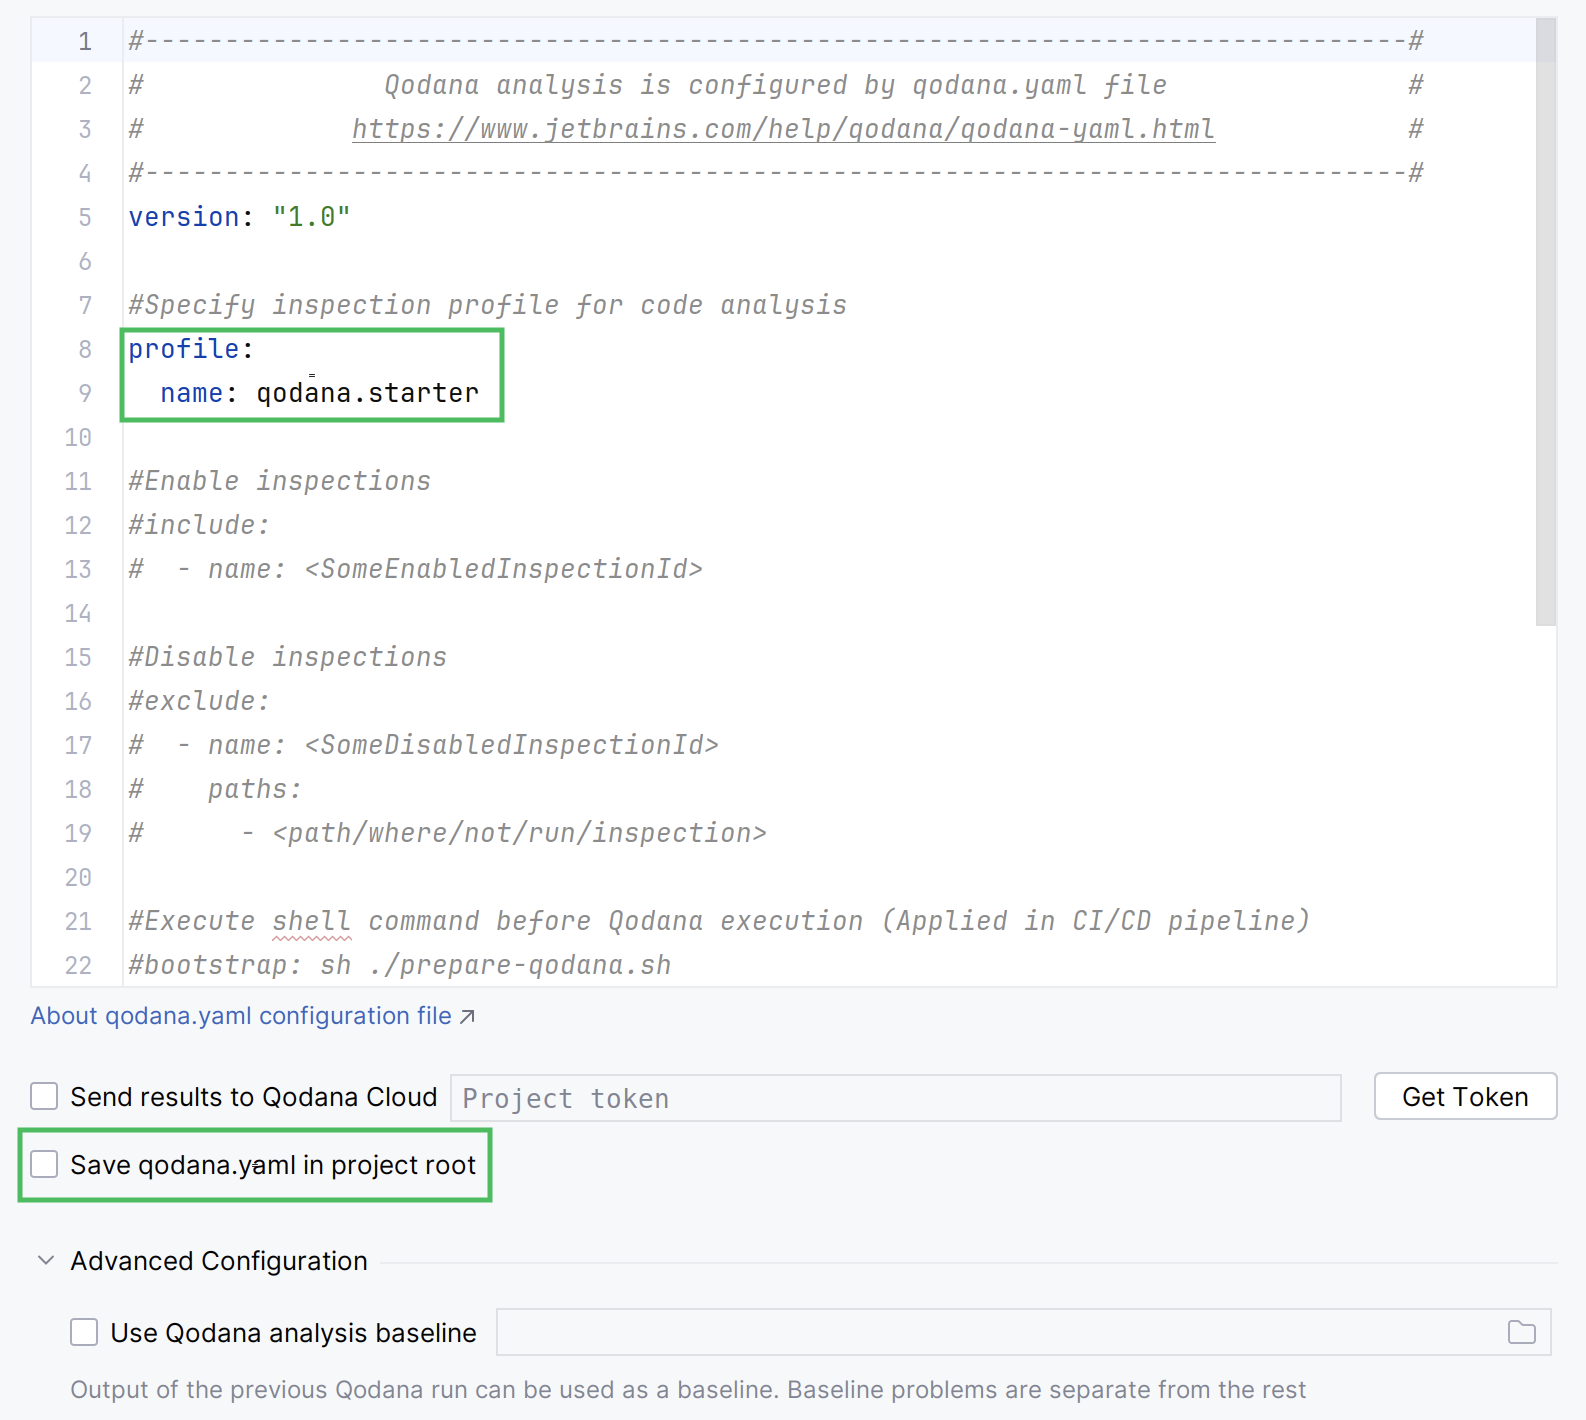
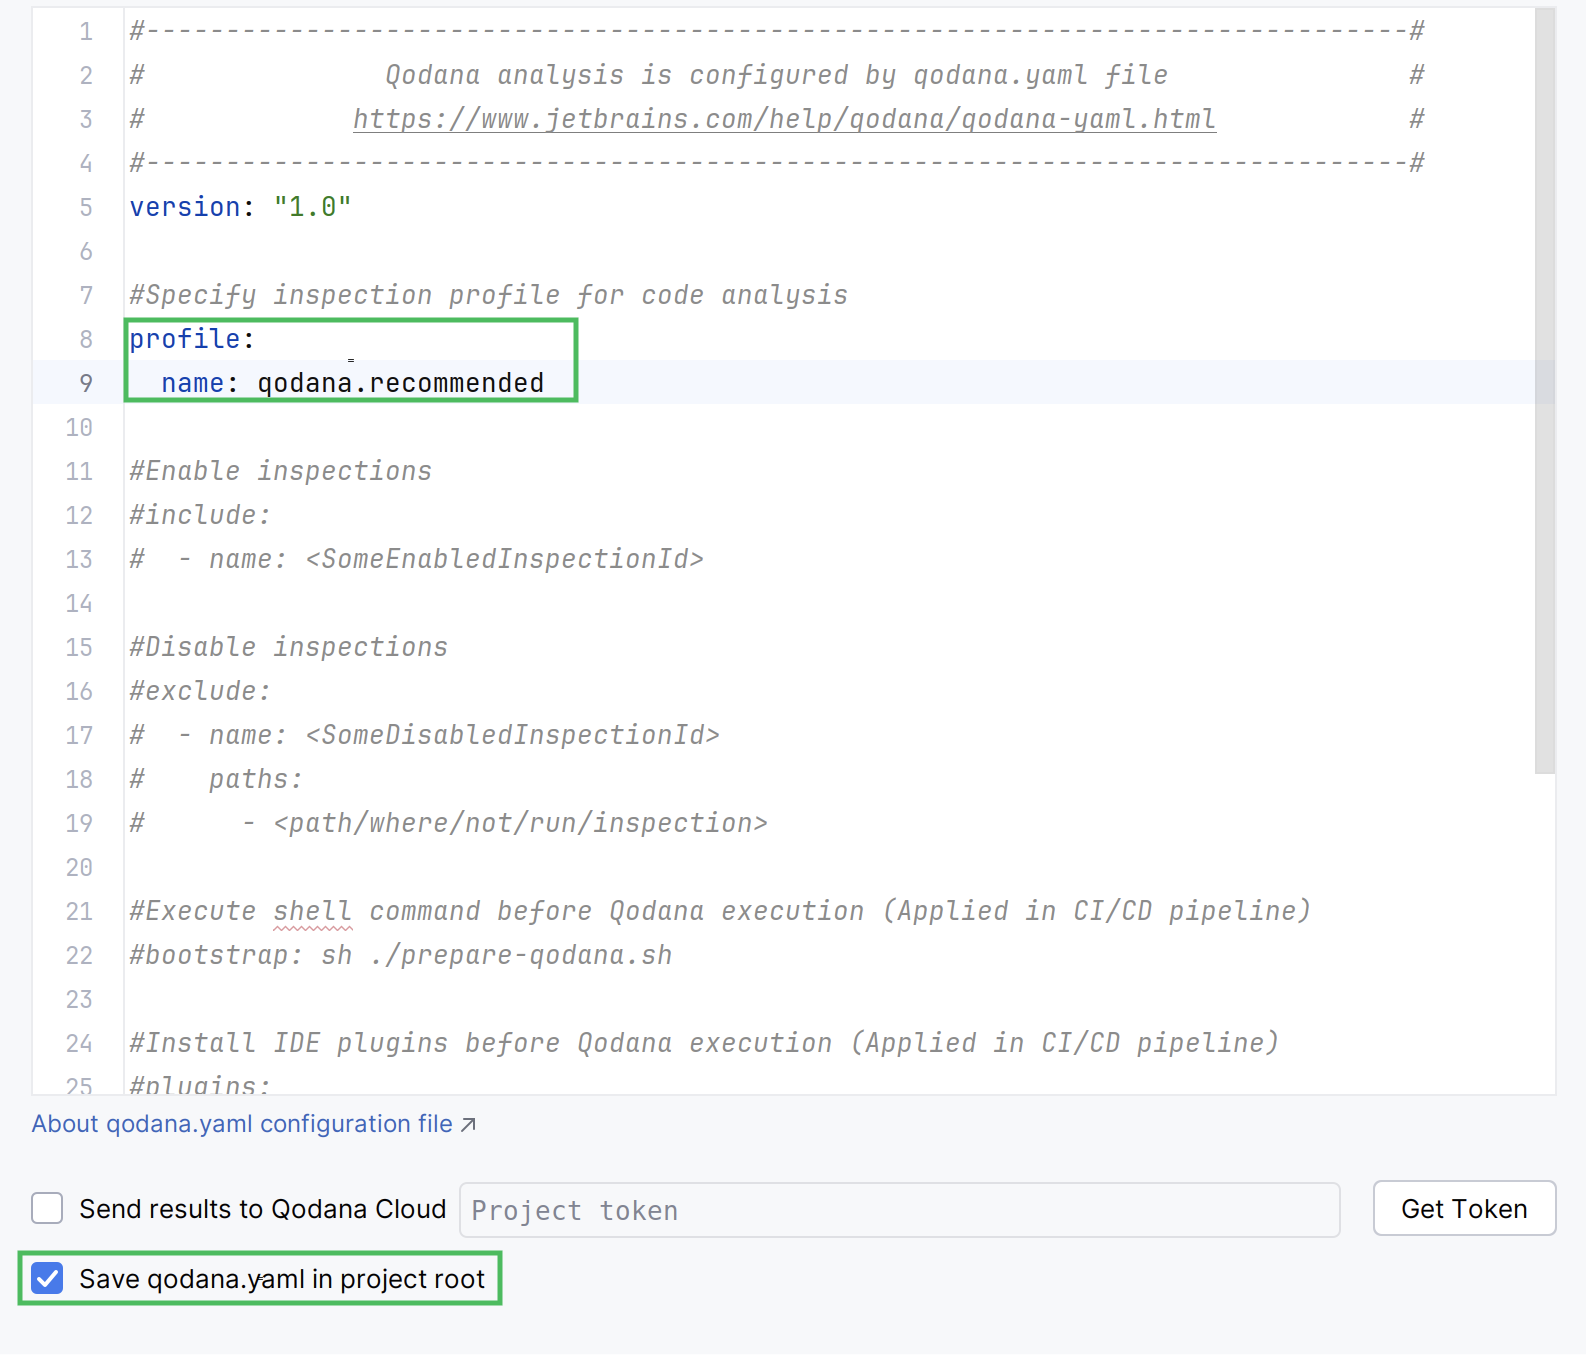
QD-9074 Update based on SME review

diff --git a/topics/inspection-profiles-draft.md b/topics/inspection-profiles-draft.md
@@ -12,9 +12,8 @@
 <link-summary>Inspection profiles configure inspections, file scopes that these inspections analyze, 
 and severities.</link-summary>
 
-Inspection profiles configure [inspections](code-inspections.topic), file scopes that these inspections analyze, and 
-[severities](troubleshooting.topic#troubleshooting-severities). Using inspection profiles, you tell %instance% about
-a scope and methods of inspection.
+Inspection profiles define [inspections](code-inspections.topic), file scopes that these inspections analyze, and 
+[severities](troubleshooting.topic#troubleshooting-severities).
 
 ## %product% profiles
 {id="Default+profiles"}
@@ -36,9 +35,23 @@ Out of the box, you can employ these %product% profiles:
     </tr>
     <tr>
         <td><code>qodana.recommended</code></td>
-        <td>Implements default profiles of JetBrains IDEs like <a href="https://www.jetbrains.com/help/idea/customizing-profiles.html">IntelliJ IDEA</a> and others. Contains 
-        inspections for critical or severe issues in the codebase. Does not perform style checks and ignores 
-        non-critical folders like <code>tests</code></td>
+        <td><p>Implements default profiles of JetBrains IDEs like 
+        <a href="https://www.jetbrains.com/help/idea/customizing-profiles.html">IntelliJ IDEA</a> with the following 
+        exceptions:</p> 
+        <list>
+            <li>
+                By default, Qodana provides analysis only for specific languages and frameworks. This means that, for 
+                example, Groovy or JavaScript inspections are available but disabled by default. Inspections
+                of the <code>INFORMATION</code> <a href="troubleshooting.topic" anchor="troubleshooting-severities">IDE severity</a> 
+                are also disabled.</li>
+            <li>
+                Several inspections that affect code highlighting in IDEs and global inspections were removed from %product% linters.  
+            </li>
+            <li>
+                Flaky inspections that are still available in IDEs were removed from %product% linters.
+            </li>
+        </list>
+        </td>
         <td>See <a anchor="profiles-set-up-a-qodana-profile"/></td>
     </tr>
 </table>
@@ -67,7 +80,6 @@ all software products.
 <step>In the root directory of your project, create the <code>qodana.yaml</code> file.</step>
 <step><p>In the <code>qodana.yaml</code> file, save the following configuration:</p>
 <code-block lang="yaml">
-version: "1.0"
 profile:
 &nbsp;&nbsp;&nbsp;&nbsp;name: qodana.recommended
 </code-block>
@@ -97,7 +109,7 @@ profile:
 </code-block> 
    <img src="ide-plugin-configure-profile.png" width="793" alt="Configuring a Qodana profile" border-effect="line"/>
 </step>
-<step><p>In the lower part of the dialog, check the <ui-path>Save qodana.yaml to project root</ui-path> option.</p>
+<step><p>Below the configuration field, check the <ui-path>Save qodana.yaml in project root</ui-path> option.</p>
 </step>
 <step>
     <p>Click <ui-path>Run</ui-path> for inspecting your code using the <code>qodana.recommended</code> profile.</p>
@@ -209,7 +221,6 @@ all software products.
 <step>In the root directory of your project, create the <code>qodana.yaml</code> file.</step>
 <step><p>In the <code>qodana.yaml</code> file, save the following configuration:</p>
 <code-block lang="yaml">
-version: "1.0"
 profile:
 &nbsp;&nbsp;&nbsp;&nbsp;path: .qodana/&lt;custom-profile.yaml&gt;
 </code-block>
@@ -237,9 +248,9 @@ this step and [run Qodana](qodana-ide-plugin.md#ide-plugin-run-qodana). Otherwis
     profile:
     &nbsp;&nbsp;path: .qodana/&lt;custom-profile.yaml&gt;
 </code-block> 
-   <img src="ide-plugin-configure-profile.png" width="793" alt="Configuring a Qodana profile" border-effect="line"/>
+   <img src="ide-plugin-configure-profile-2.png" width="793" alt="Configuring a Qodana profile" border-effect="line"/>
 </step>
-<step><p>In the lower part of the dialog, check the <ui-path>Save qodana.yaml to project root</ui-path> option.</p>
+<step><p>In the lower part of the dialog, check the <ui-path>Save qodana.yaml in project root</ui-path> option.</p>
 </step>
 <step>
     <p>Click <ui-path>Run</ui-path> for inspecting your code using the <code>qodana.recommended</code> profile.</p>
